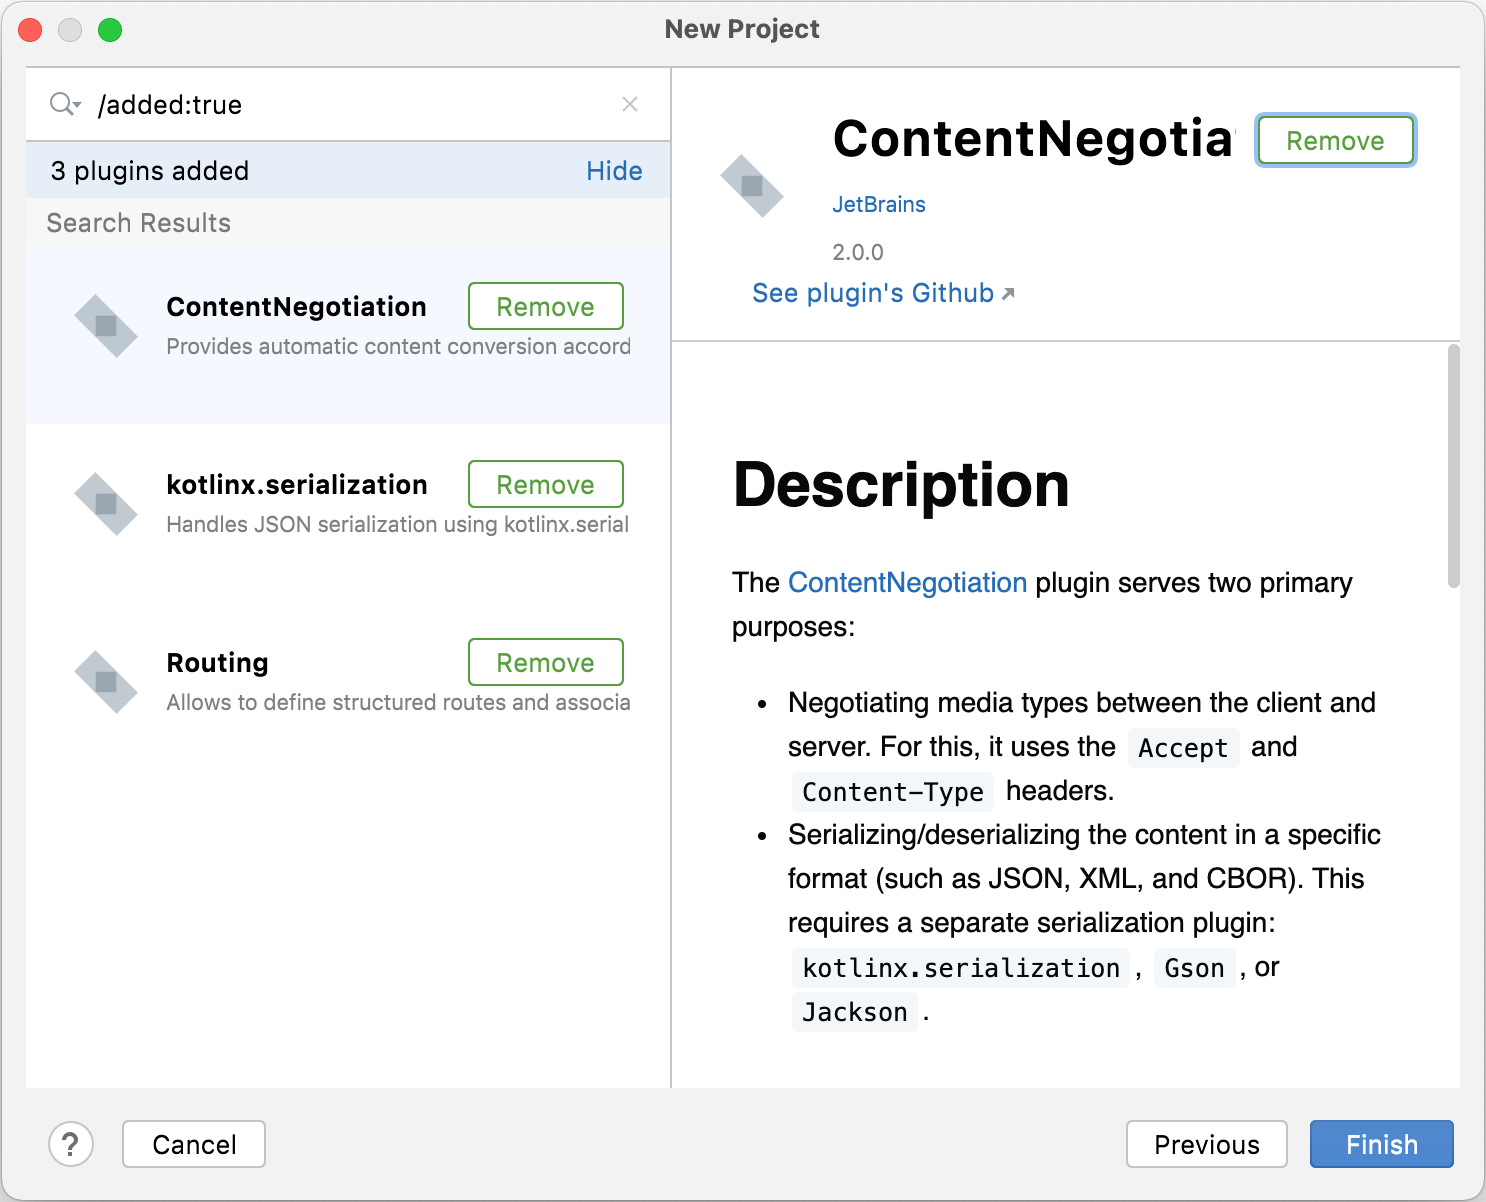
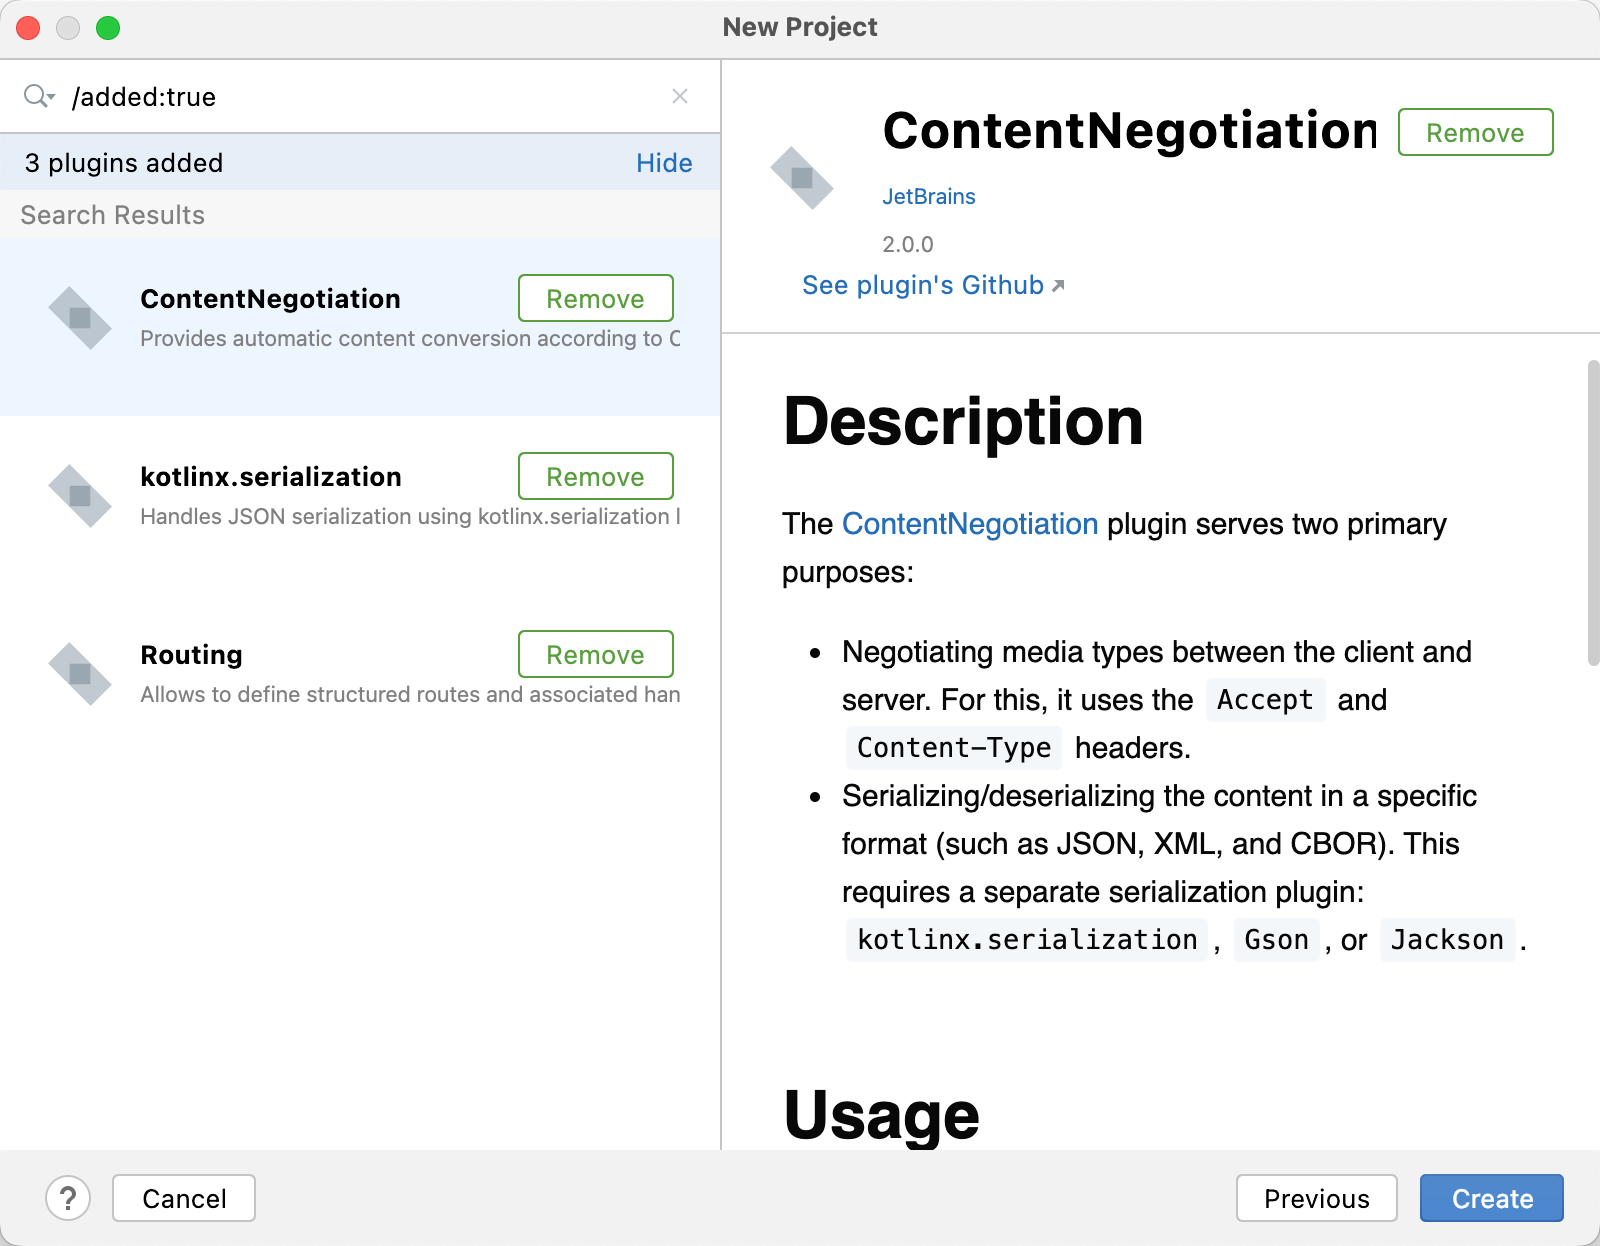
KTOR-3738 update screens to the latest IDEA UI

diff --git a/topics/creating_static_website.md b/topics/creating_static_website.md
@@ -15,7 +15,7 @@ In this series of tutorials, we'll show you how to create a simple blog applicat
 - In the next tutorial, we'll make our application [interactive](creating_interactive_website.md) using the FreeMarker template engine.
 - Finally, we'll [add persistence](interactive_website_add_persistence.md) to our website using the Exposed framework.
 
-![](ktor_journal.png){animated="true" width="502"}
+![](ktor_journal.png){animated="true" width="502" border-effect="rounded"}
 
 ## Prerequisites {id="prerequisites"}
 <include src="lib.xml" include-id="plugin_prerequisites"/>
@@ -26,13 +26,13 @@ To create a base project for our application using the Ktor plugin, [open Intell
 
 1. <include src="lib.xml" include-id="new_project_idea"/>
 2. In the **New Project** wizard, choose **Ktor** from the list on the left. On the right pane, specify the following settings:
-   ![New Ktor project](tutorial_website_new_project.png){width="729"}
+   ![New Ktor project](tutorial_website_new_project.png){width="706" border-effect="rounded"}
 * **Name**: Specify a project name.
 * **Location**: Specify a directory for your project.
 * **Build System**: Make sure that _Gradle Kotlin_ is selected as a [build system](server-dependencies.xml).
 * **Website**: Leave the default `com.example` value as a domain used to generate a package name.
 * **Artifact**: This field shows a generated artifact name.
-* **Ktor Version**: Choose the latest Ktor version.
+* **Ktor version**: Choose the latest Ktor version.
 * **Engine**: Leave the default _Netty_ [engine](Engines.md).
 * **Configuration in**: Choose _HOCON file_ to specify server parameters in a [dedicated configuration file](create_server.xml).
 * **Add sample code**: Disable this option to skip adding sample code for plugins.
@@ -40,9 +40,9 @@ To create a base project for our application using the Ktor plugin, [open Intell
 Click **Next**.
 
 3. On the next page, add the **Routing**, **Static Content**, and **FreeMarker** plugins:
-   ![Ktor plugins](tutorial_website_new_project_plugins.png){width="727"}
+   ![Ktor plugins](tutorial_website_new_project_plugins.png){width="706" border-effect="rounded"}
 
-   Click **Finish** and wait until IntelliJ IDEA generates a project and installs the dependencies.
+   Click **Create** and wait until IntelliJ IDEA generates a project and installs the dependencies.
 
 
 ## Examine the project {id="project_setup"}

diff --git a/topics/creating_web_socket_chat.md b/topics/creating_web_socket_chat.md
@@ -44,13 +44,13 @@ To create a base project for our application using the Ktor plugin, [open Intell
 
 1. <include src="lib.xml" include-id="new_project_idea"/>
 2. In the **New Project** wizard, choose **Ktor** from the list on the left. On the right pane, specify the following settings:
-   ![New Ktor project](tutorial_websockets_server_new_project.png){width="744"}
+   ![New Ktor project](tutorial_websockets_server_new_project.png){width="706" border-effect="rounded"}
    * **Name**: Specify a project name.
    * **Location**: Specify a directory for your project.
    * **Build System**: Make sure that _Gradle Kotlin_ is selected as a [build system](server-dependencies.xml).
    * **Website**: Leave the default `com.example` value as a domain used to generate a package name.
    * **Artifact**: This field shows a generated artifact name.
-   * **Ktor Version**: Choose the latest Ktor version.
+   * **Ktor version**: Choose the latest Ktor version.
    * **Engine**: Leave the default _Netty_ [engine](Engines.md).
    * **Configuration in**: Choose _HOCON file_ to specify server parameters in a [dedicated configuration file](create_server.xml).
    * **Add sample code**: Disable this option to skip adding sample code for plugins.
@@ -58,9 +58,9 @@ To create a base project for our application using the Ktor plugin, [open Intell
    Click **Next**.
 
 3. On the next page, add the **Routing** and **WebSockets** plugins:
-   ![Ktor plugins](tutorial_websockets_server_new_project_plugins.png){width="744"}
+   ![Ktor plugins](tutorial_websockets_server_new_project_plugins.png){width="706" border-effect="rounded"}
 
-   Click **Finish** and wait until IntelliJ IDEA generates a project and installs the dependencies.
+   Click **Create** and wait until IntelliJ IDEA generates a project and installs the dependencies.
 
 
 ## Examine the project {id="project_setup"}

diff --git a/topics/creating_http_apis.md b/topics/creating_http_apis.md
@@ -24,13 +24,13 @@ To create a base project for our application using the Ktor plugin, [open Intell
 
 1. <include src="lib.xml" include-id="new_project_idea"/>
 2. In the **New Project** wizard, choose **Ktor** from the list on the left. On the right pane, specify the following settings:
-   ![New Ktor project](tutorial_http_api_new_project.png){width="743"}
+   ![New Ktor project](tutorial_http_api_new_project.png){width="706" border-effect="rounded"}
    * **Name**: Specify a project name.
    * **Location**: Specify a directory for your project.
    * **Build System**: Make sure that _Gradle Kotlin_ is selected as a [build system](server-dependencies.xml).
    * **Website**: Leave the default `com.example` value as a domain used to generate a package name.
    * **Artifact**: This field shows a generated artifact name.
-   * **Ktor Version**: Choose the latest Ktor version.
+   * **Ktor version**: Choose the latest Ktor version.
    * **Engine**: Leave the default _Netty_ [engine](Engines.md).
    * **Configuration in**: Choose _HOCON file_ to specify server parameters in a [dedicated configuration file](create_server.xml).
    * **Add sample code**: Disable this option to skip adding sample code for plugins.
@@ -38,9 +38,9 @@ To create a base project for our application using the Ktor plugin, [open Intell
    Click **Next**.
    
 3. On the next page, add the **Routing**, **ContentNegotiation**, and **kotlinx.serialization** plugins:
-   ![Ktor plugins](tutorial_http_api_new_project_plugins.png){width="743"}
+   ![Ktor plugins](tutorial_http_api_new_project_plugins.png){width="706" border-effect="rounded"}
    
-   Click **Finish** and wait until IntelliJ IDEA generates a project and installs the dependencies.
+   Click **Create** and wait until IntelliJ IDEA generates a project and installs the dependencies.
 
 
 
